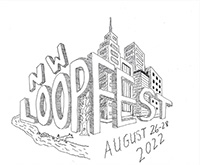
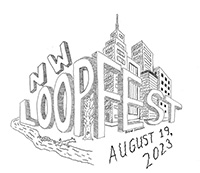
Update with 2023 details

Changed region(s): [[0.03, 0.0606, 0.93, 1.0]]

diff --git a/src/components/HomePage.js b/src/components/HomePage.js
@@ -8,11 +8,22 @@ function HomePage() {
       </div>
       <div className="container">
         <div className="container center">
-          <h2>2023 Festival</h2>
+          <h2>August 19th, 2023 at The Shaku Bar</h2>
         </div>
         <div className="container-fluid"><div className="row">
           <div className="col-sm center">
-            <p>Save the date: August 19th, Portland Oregon!!</p>
+            <p> 4PM, 3448 NE Sandy Blvd. Portland, OR 97232</p>
+            <h3>Featuring:</h3>
+            <p>
+             
+                Oleada<br/>
+                Twenty Three Suns<br/>
+                Ben Beauvais<br/>
+                Gnostic Evolution<br/>
+                Exosphere Project<br/>
+
+            </p>
+            
           </div>
         </div>
         </div>

diff --git a/src/stores/LoopStore.js b/src/stores/LoopStore.js
@@ -1,4 +1,5 @@
 const fests = [
+  
     {
       year: 2022,
       day:"August 26th through 28th",
